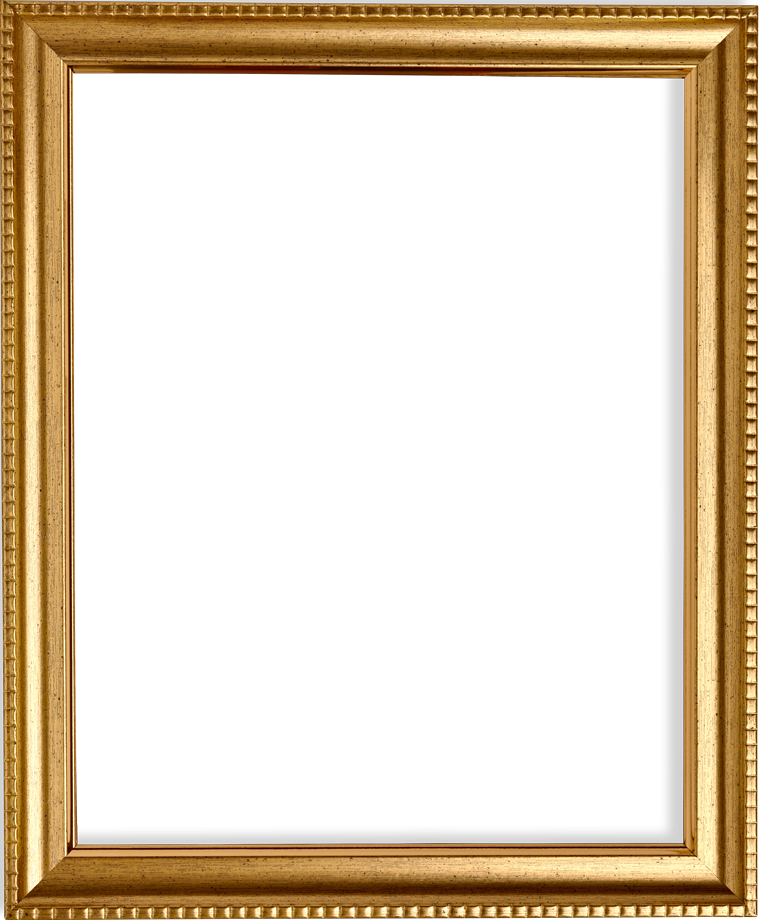
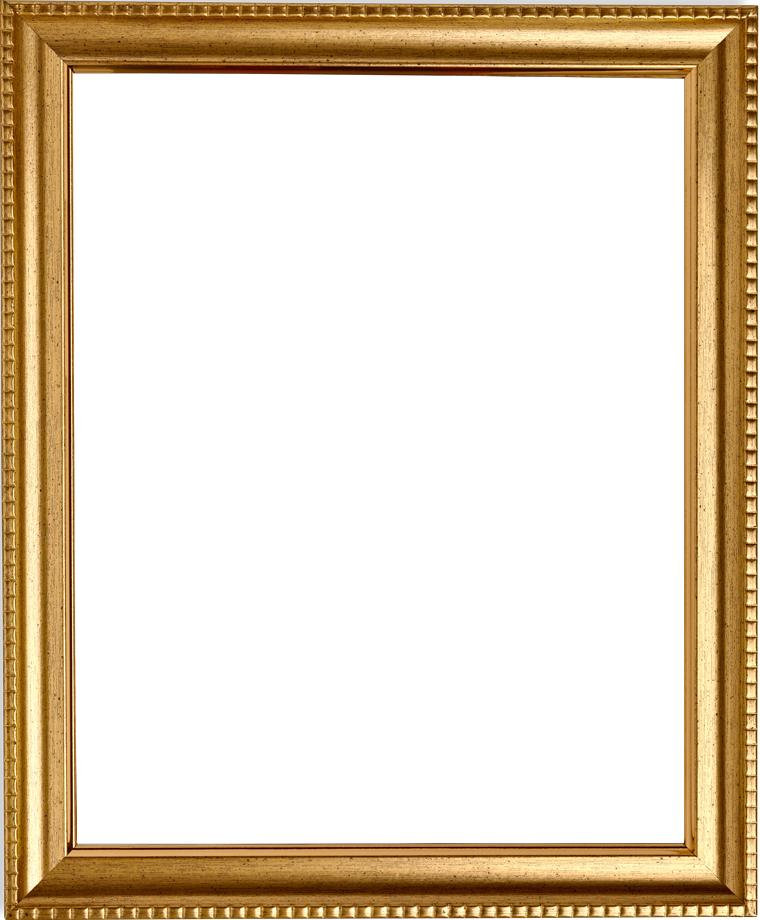
size

Changed region(s): [[0.0908, 0.0609, 0.9079, 0.9435]]

diff --git a/css/index.css b/css/index.css
@@ -1,20 +1,20 @@
 #frame {
   position: relative;
   background: url('../img/clipart1041156.png') no-repeat;
-  background-size: 378px 364px;
-  width: 378px;
-  height: 364px;
+  background-size: 350px 361px;
+  width: 350px;
+  height: 361px;
   margin: 0 auto;
   z-index: 50;
 }
 
 .container {
   position: absolute;
-  top: 33px;
-  left: 39px;
+  top: 31px;
+  left: 35px;
   /*width: 80%;
   height: 80%;*/
-  width: 300px;
+  width: 280px;
   height: 300px;
   margin: 0 auto;
   -webkit-user-select: none;
@@ -29,4 +29,11 @@
 .canvas {
   position: absolute;
   top: 0;
+  width: 100%;
+  height: 100%;
+}
+
+#subImage {
+  width: 100%;
+  height: 100%;
 }

diff --git a/js/main.js b/js/main.js
@@ -3,10 +3,10 @@
   'use strict';
 
   var isDrawing, lastPoint;
-  var container    = document.getElementById('js-container'),
+  var container  = document.getElementById('js-container'),
     canvas       = document.getElementById('js-canvas'),
-    centoLink       = document.getElementById('cento-link'),
-    rubImage       = document.getElementById('rubImage'),
+    centoLink    = document.getElementById('cento-link'),
+    rubImage     = document.getElementById('rubImage'),
     canvasWidth  = canvas.width,
     canvasHeight = canvas.height,
     ctx          = canvas.getContext('2d'),

diff --git a/index.html b/index.html
@@ -34,8 +34,8 @@
 </h1>
 <div id="frame">
   <div class="container" id="js-container" style="display: none;">
-    <canvas class="canvas" id="js-canvas" width="300" height="300"></canvas>
-    <svg id="subImage" width="300px" height="300px" viewBox="452 75 95 230">
+    <canvas class="canvas" width="280" height="300" id="js-canvas"></canvas>
+    <svg id="subImage" viewBox="452 75 95 230">
       <style type="text/css">
         .eu {
           fill: #b4c1b1;
